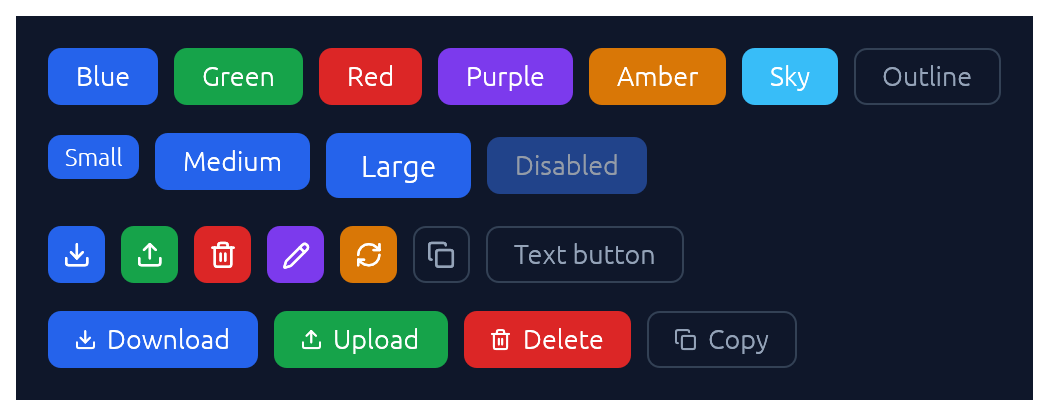
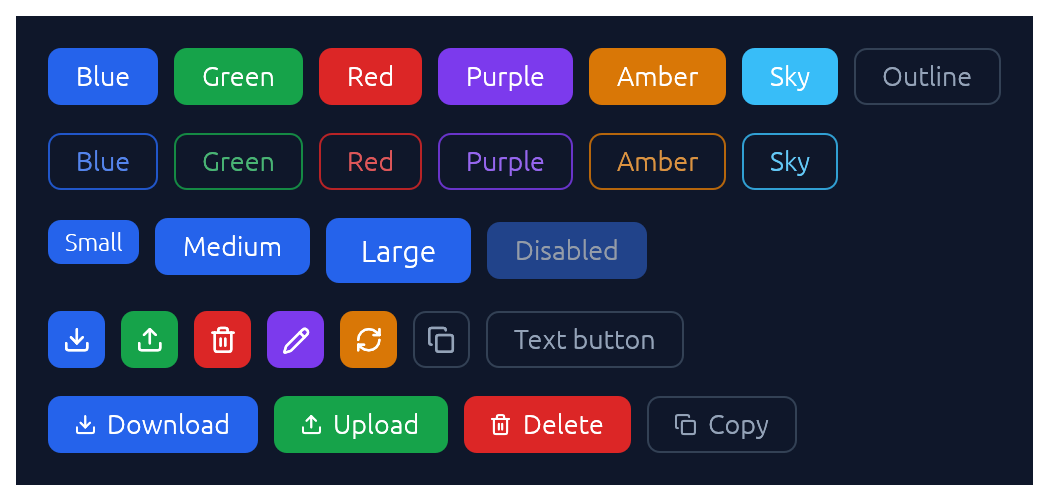
Button: accent tints outline buttons

diff --git a/src/button.rs b/src/button.rs
@@ -3,7 +3,8 @@
 //! A [`Button`] is a chunky, rounded rectangle with a coloured fill, bold
 //! text, and smooth hover/press transitions. Six accent colours are
 //! available: Blue, Green, Red, Purple, Amber, and Sky. For secondary
-//! actions, [`Button::outline`] gives a transparent, bordered treatment.
+//! actions, [`Button::outline`] gives a transparent, bordered treatment,
+//! neutral unless given an accent.
 //! [`Button::icon`] renders one of the [`glyphs`](crate::glyphs) as a square
 //! icon-only button, and [`Button::icon_text`] puts one beside the label.
 
@@ -94,7 +95,8 @@ pub struct Button {
     /// [`Content::Icon`].
     text: WidgetText,
     content: Content,
-    accent: Accent,
+    /// `None` is Blue when filled and neutral when outlined.
+    accent: Option<Accent>,
     size: ButtonSize,
     outline: bool,
     min_width: Option<f32>,
@@ -132,7 +134,7 @@ impl Button {
         Self {
             text: text.into(),
             content: Content::Text,
-            accent: Accent::Blue,
+            accent: None,
             size: ButtonSize::Medium,
             outline: false,
             min_width: None,
@@ -189,16 +191,25 @@ impl Button {
         }
     }
 
-    /// Pick the button accent colour. Ignored when the button is set to
-    /// [`Button::outline`], which has no fill colour of its own.
+    /// Pick the button accent colour. On an [`outline`](Self::outline)
+    /// button it tints the border and label, e.g. red for a risky secondary
+    /// action:
+    ///
+    /// ```no_run
+    /// # use elegance::{Accent, Button};
+    /// # egui::__run_test_ui(|ui| {
+    /// ui.add(Button::new("Continue anyway").outline().accent(Accent::Red));
+    /// # });
+    /// ```
     #[inline]
     pub fn accent(mut self, accent: Accent) -> Self {
-        self.accent = accent;
+        self.accent = Some(accent);
         self
     }
 
     /// Render the button as a transparent, bordered "ghost" treatment for
-    /// secondary actions.
+    /// secondary actions. Neutral grey unless given an
+    /// [`accent`](Self::accent).
     #[inline]
     pub fn outline(mut self) -> Self {
         self.outline = true;
@@ -512,7 +523,7 @@ fn paint_barber_pole(ui: &Ui, rect: egui::Rect, theme: &Theme, outline: bool) {
 
 fn resolve_colors(
     theme: &Theme,
-    accent: Accent,
+    accent: Option<Accent>,
     outline: bool,
     enabled: bool,
     loading: bool,
@@ -528,7 +539,7 @@ fn resolve_colors(
             );
         }
         return (
-            mix(p.accent_fill(accent), p.card, 0.55),
+            mix(p.accent_fill(accent.unwrap_or(Accent::Blue)), p.card, 0.55),
             Stroke::NONE,
             mix(p.text, p.card, 0.4),
         );
@@ -536,6 +547,25 @@ fn resolve_colors(
     let is_down = !loading && response.is_pointer_button_down_on();
     let is_hovered = !loading && response.hovered();
 
+    if let (true, Some(accent)) = (outline, accent) {
+        let tint = p.accent_fill(accent);
+        // The accent eased toward the text colour, to read as text on the
+        // page in light and dark themes alike.
+        let text = mix(tint, p.text, 0.25);
+        let stroke_color = if is_hovered {
+            tint
+        } else {
+            with_alpha(tint, 210)
+        };
+        let fill = if is_down {
+            with_alpha(tint, 40)
+        } else if is_hovered {
+            with_alpha(tint, 24)
+        } else {
+            Color32::TRANSPARENT
+        };
+        return (fill, Stroke::new(1.0, stroke_color), text);
+    }
     if outline {
         let text = if is_hovered { p.text } else { p.text_muted };
         let stroke_color = if is_hovered { p.text_muted } else { p.border };
@@ -549,6 +579,7 @@ fn resolve_colors(
         return (fill, Stroke::new(1.0, stroke_color), text);
     }
 
+    let accent = accent.unwrap_or(Accent::Blue);
     let resting = p.accent_fill(accent);
     let hover = p.accent_hover(accent);
     let fill = if is_down {

diff --git a/examples/render_docs.rs b/examples/render_docs.rs
@@ -309,6 +309,19 @@ fn render_buttons() {
             });
             ui.add_space(6.0);
             ui.horizontal_wrapped(|ui| {
+                for (lbl, a) in [
+                    ("Blue", Accent::Blue),
+                    ("Green", Accent::Green),
+                    ("Red", Accent::Red),
+                    ("Purple", Accent::Purple),
+                    ("Amber", Accent::Amber),
+                    ("Sky", Accent::Sky),
+                ] {
+                    let _ = ui.add(Button::new(lbl).outline().accent(a));
+                }
+            });
+            ui.add_space(6.0);
+            ui.horizontal_wrapped(|ui| {
                 ui.add(
                     Button::new("Small")
                         .size(ButtonSize::Small)

diff --git a/tests/visual.rs b/tests/visual.rs
@@ -136,6 +136,19 @@ fn buttons_ui(ui: &mut egui::Ui) {
     });
     ui.add_space(8.0);
     ui.horizontal_wrapped(|ui| {
+        for (lbl, a) in [
+            ("Blue", Accent::Blue),
+            ("Green", Accent::Green),
+            ("Red", Accent::Red),
+            ("Purple", Accent::Purple),
+            ("Amber", Accent::Amber),
+            ("Sky", Accent::Sky),
+        ] {
+            ui.add(Button::new(lbl).outline().accent(a));
+        }
+    });
+    ui.add_space(8.0);
+    ui.horizontal_wrapped(|ui| {
         ui.add(
             Button::new("Small")
                 .size(ButtonSize::Small)

diff --git a/CHANGELOG.md b/CHANGELOG.md
@@ -16,6 +16,7 @@ Versions before 0.11.0 predate tagging; see the git history for those.
 
 - **Breaking:** `IndicatorState` is `#[non_exhaustive]`.
 - Menu labels line up when any item has an icon, check or radio mark.
+- `Button::accent` tints an `outline` button's border and label, e.g. red for a risky secondary action. Outline buttons without an accent stay neutral.
 
 ### Fixed
 
